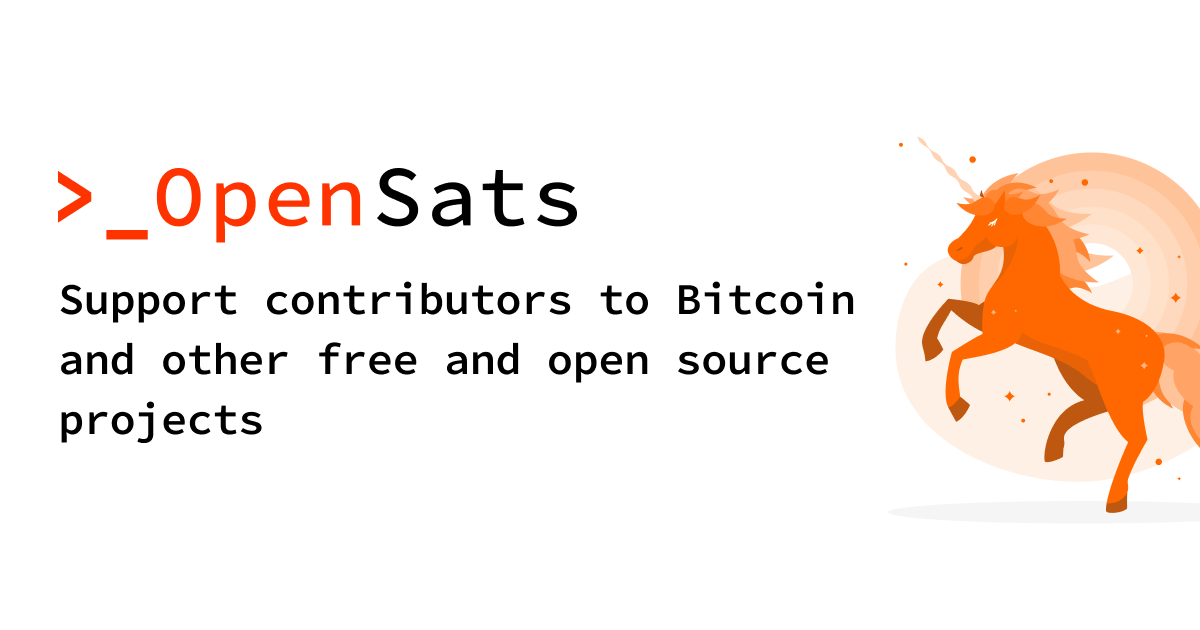
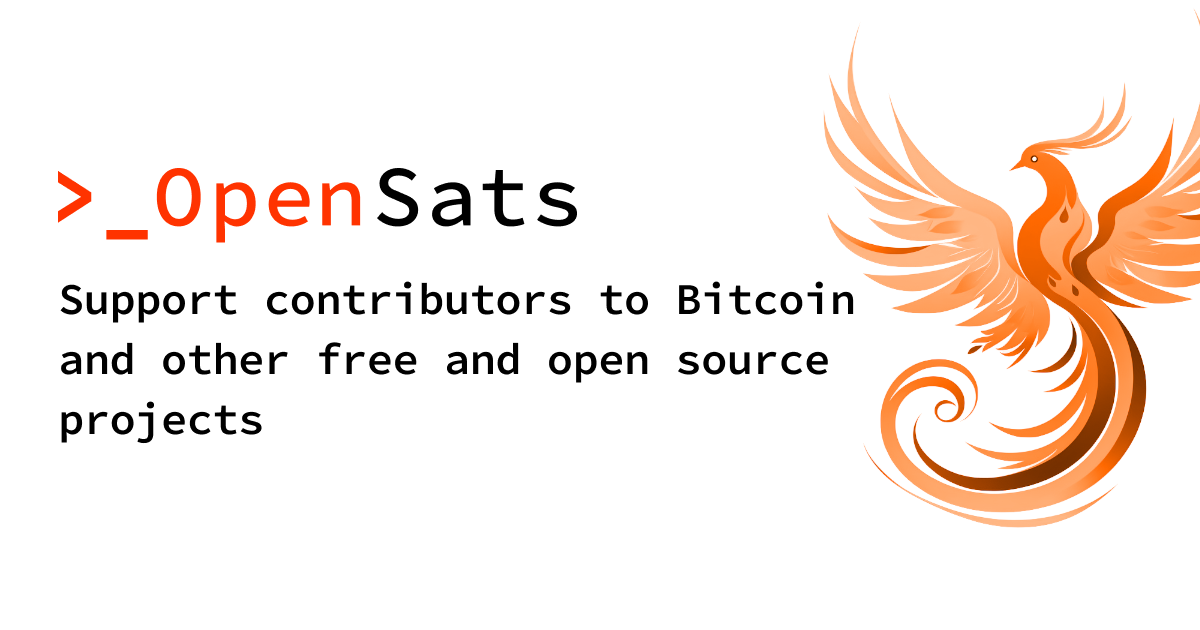
OpenSats: Phoenix (#64)
* Add phoenix graphic

* Refactor: Unicorn -> Phoenix

* Update social media card

Phoenix, not Unicorn

Changed region(s): [[0.6783, 0.1206, 1.0, 0.8444]]

diff --git a/pages/index.tsx b/pages/index.tsx
@@ -5,7 +5,7 @@ import ProjectList from '../components/ProjectList'
 import PaymentModal from '../components/PaymentModal'
 import Link from 'next/link'
 import Image from 'next/image'
-import unicorn from '/public/heroes/unicorn.png'
+import phoenix from '/public/heroes/phoenix.png'
 import { getAllPosts, getPostBySlug } from '../utils/md'
 import Credits from '../components/Credits'
 import { ProjectItem } from '../utils/types'
@@ -77,7 +77,7 @@ const Home: NextPage<{ projects: ProjectItem[], generalFund: ProjectItem, opsFun
             </p>
           </div>
           <div className="flex-1 flex justify-center">
-            <Image width={388} height={388} src={unicorn} alt="Unicorn" />
+            <Image width={388} height={388} src={phoenix} alt="Phoenix" />
           </div>
         </section>
         <ProjectList projects={projects} openPaymentModal={openPaymentModal} />
